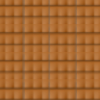
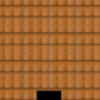
added shop images

Changed region(s): [[0.36, 0.9, 0.63, 1.0]]

diff --git a/InitialCode.py b/InitialCode.py
@@ -24,14 +24,14 @@ class Bank(pygame.sprite.Sprite):
     # this will be the class for the bank in the shop that the player can use
     def __init__(self):
         super().__init__()
-        self.x_size = 150
-        self.y_size = 150
+        self.x_size = 115
+        self.y_size = 115
         self.image = pygame.Surface([self.x_size, self.y_size])
-        self.image.fill(RED)
+        
 
         self.rect = self.image.get_rect()
-        self.rect.x = 700
-        self.rect.y = 450
+        self.rect.x = 760
+        self.rect.y = 510
 
         self.balance = 0
 
@@ -132,7 +132,7 @@ class Powerup(pygame.sprite.Sprite):
     def __init__(self, x, y):
         super().__init__()
         self.image = pygame.Surface([50,50])
-        self.image.fill(YELLOW)
+       
         self.rect = self.image.get_rect()
         self.rect.x = x
         self.rect.y = y
@@ -144,8 +144,12 @@ class Powerup(pygame.sprite.Sprite):
 
         if self.type == "Shotgun":
             self.cost = 5
+            self.item_image = pygame.image.load("shotgun.png").convert()
+            self.item_image.set_colorkey(BLACK)
         elif self.type == "Speed":
             self.cost = 4
+            self.item_image = pygame.image.load("bolt.png").convert()
+            self.item_image.set_colorkey(BLACK)
      
 
 class Tree(pygame.sprite.Sprite):
@@ -692,7 +696,7 @@ class Game(object):
         elif self.player.rect.y <= 0:
             self.player.rect.y = self.player.rect.y + self.player.speed
         elif self.player.rect.y >= 685:
-            if self.player.rect.x > 480 and self.player.rect.x < 520:    
+            if self.player.rect.x > 460 and self.player.rect.x < 540:    
                 if self.shop_screen:
                     self.game_start = True
                     self.restart(self.player.x_speed, self.player.y_speed, self.player.money, self.player.score, self.player.lives, self.player.speed, self.player.gun, self.game_start)
@@ -787,9 +791,14 @@ class Game(object):
         self.bank_list.add(self.bank)
 
         # Create powerup
-        for i in range(5):
+        for i in range(3):
 
-            self.powerup = Powerup(i * 150 + 200 ,100)
+            self.powerup = Powerup(i * 250 + 125 ,130)
+            self.all_sprites_list.add(self.powerup)
+            self.powerup_list.add(self.powerup)
+        for i in range(2):
+
+            self.powerup = Powerup(i * 250 + 250 ,350)
             self.all_sprites_list.add(self.powerup)
             self.powerup_list.add(self.powerup)
 
@@ -1025,11 +1034,31 @@ class Game(object):
         elif self.shop_screen:
             # display the screen for the shop 
             
-            screen.fill(BROWN)
+            self.background_image = pygame.image.load("Holz Clean.jpg").convert()
+            screen.blit(self.background_image, [0, 0])
 
             
 
+            
+
+            self.plank_image = pygame.image.load("plank.png").convert()
+            for i in range(3):
+                screen.blit(self.plank_image, [i* 250 + 75, 80])
+            for i in range(2):
+                screen.blit(self.plank_image, [i* 250 + 200 , 300])
+
+           
+            for self.powerup in self.powerup_list:
+                text = self.player.font.render("Cost: " + str(self.powerup.cost),True,WHITE)
+                screen.blit(text, [self.powerup.rect.x - 10, self.powerup.rect.y + 70 ])
+                screen.blit(self.powerup.item_image, [self.powerup.rect.x, self.powerup.rect.y])
+              
+         
+
             self.all_sprites_list.draw(screen)
+            self.bank_image = pygame.image.load("bag.png").convert()
+            self.bank_image.set_colorkey(BLACK) 
+            screen.blit(self.bank_image, [self.bank.rect.x - 20 , self.bank.rect.y - 20])
             
             # player image
             screen.blit(self.player.player_image, [self.player.rect.x, self.player.rect.y])
@@ -1040,8 +1069,9 @@ class Game(object):
             screen.blit(text, [780, 2])
             text = self.player.font.render("Money: " + str(self.player.money),True,WHITE)
             screen.blit(text, [660, 2])
-            text = self.player.font.render("Balance: " + str(self.bank.balance),True,WHITE)
-            screen.blit(text, [725, 610])
+            font = pygame.font.SysFont('Calibri', 35, True, False)
+            text = font.render("$" + str(self.bank.balance),True,WHITE)
+            screen.blit(text, [797, 575])
 
             # drawing the hearts and score and money of the player
             for i in range(self.player.lives):
